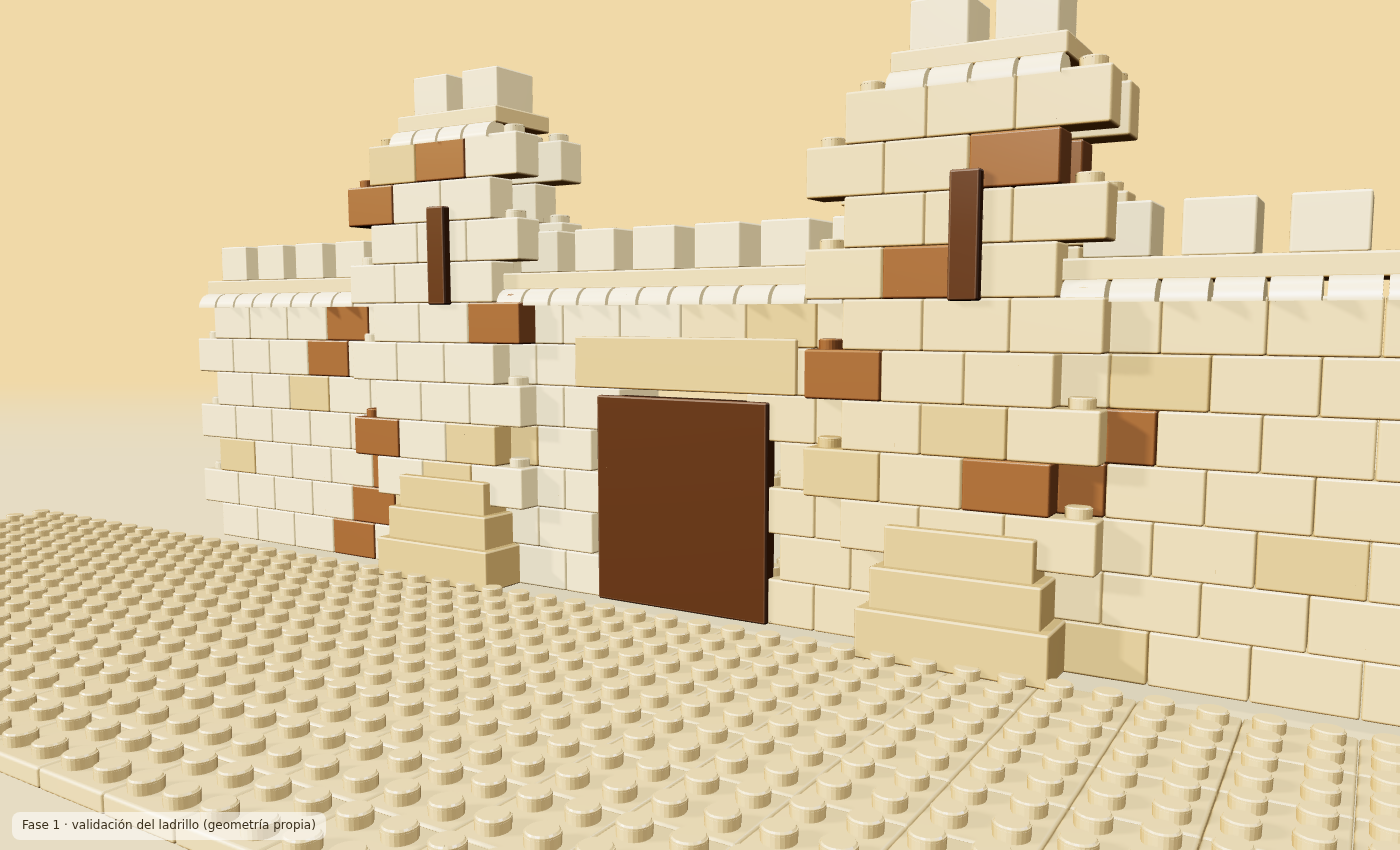
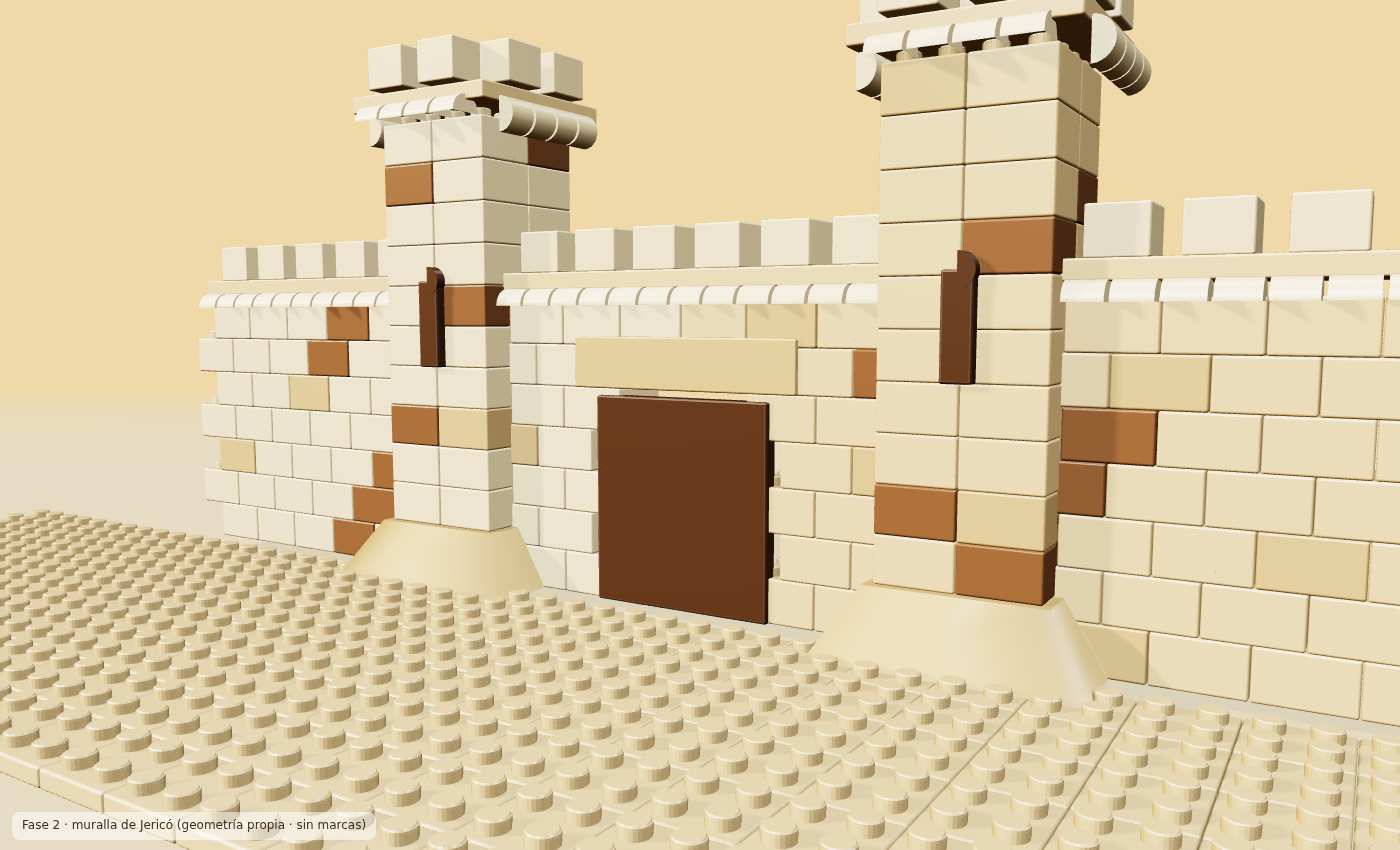
Fase 2: torres limpias (base en talud lisa, ventana de flecha, corona ordenada)
Reescribe la construccion de torres: base en talud como piramide truncada
alineada, fuste de ladrillos relleno y regular, ventana de flecha con arco,
y corona de mensulas + merlones alrededor de las cuatro caras.

Claude-Session: https://claude.ai/code/session_012PKacETd2mAKdMAMLuN5F3

Changed region(s): [[0.5529, 0.0, 0.8293, 0.8259], [0.2457, 0.0306, 0.43, 0.7035], [0.0614, 0.9482, 0.2764, 1.0]]

diff --git a/mundo-ladrillos/src/structures/BrickStructureBuilder.ts b/mundo-ladrillos/src/structures/BrickStructureBuilder.ts
@@ -51,9 +51,10 @@ function sandFor(x: number, y: number): number {
 }
 
 /** Ménsula redondeada (medio cilindro tumbado que sobresale del muro). */
-function corbelGeo(len: number): THREE.BufferGeometry {
+function corbelGeo(len: number, axis: 'x' | 'z' = 'x'): THREE.BufferGeometry {
   const g = new THREE.CylinderGeometry(0.5, 0.5, len, 16, 1, false, 0, Math.PI);
-  g.rotateZ(Math.PI / 2); // eje a lo largo de X
+  if (axis === 'x') g.rotateZ(Math.PI / 2);
+  else g.rotateX(Math.PI / 2);
   return normalizeGeometry(g);
 }
 
@@ -98,7 +99,7 @@ function addWall(acc: BrickAccumulator, o: WallOptions): void {
 function addCrown(acc: BrickAccumulator, x0: number, x1: number, topY: number, z: number): void {
   // fila de ménsulas redondeadas que sobresalen hacia delante
   for (let x = x0 + 0.5; x < x1; x += 1) {
-    acc.addGeometry(corbelGeo(0.9), BrickPalette.WARM_SAND, x, topY - 0.1, z + 1.1);
+    acc.addGeometry(corbelGeo(0.9, 'x'), BrickPalette.WARM_SAND, x, topY - 0.1, z + 1.1);
   }
   // banda continua sobre las ménsulas
   acc.addGeometry(blockGeo(x1 - x0, 0.5, 2.4), BrickPalette.SAND, (x0 + x1) / 2, topY + 0.35, z);
@@ -108,30 +109,70 @@ function addCrown(acc: BrickAccumulator, x0: number, x1: number, topY: number, z
   }
 }
 
-/** Torre cuadrada más alta, con base en talud, ventana de flecha y corona. */
-function addTower(acc: BrickAccumulator, cx: number, z: number, courses: number): void {
-  const foot = 3; // 3x3 studs
-  // base en talud (skirt que se ensancha abajo)
-  for (let i = 0; i < 3; i++) {
-    const grow = (3 - i) * 0.5;
-    acc.addGeometry(blockGeo(foot + grow, BRICK_HEIGHT, foot + grow),
-      BrickPalette.DARK_SAND, cx, i * BRICK_HEIGHT * 0.8, z);
+/** Base en talud limascia (pirámide truncada de 4 caras, alineada). */
+function addBatter(acc: BrickAccumulator, cx: number, z: number, sideTop: number, sideBot: number, height: number): void {
+  const rTop = sideTop / Math.SQRT2;
+  const rBot = sideBot / Math.SQRT2;
+  const g = new THREE.CylinderGeometry(rTop, rBot, height, 4, 1, false);
+  g.rotateY(Math.PI / 4); // caras alineadas a los ejes
+  g.translate(0, height / 2, 0);
+  acc.addGeometry(normalizeGeometry(g), BrickPalette.DARK_SAND, cx, 0, z);
+}
+
+/** Ventana de flecha: hueco oscuro rematado en arco. */
+function addSlitWindow(acc: BrickAccumulator, cx: number, y: number, zFace: number): void {
+  acc.addGeometry(blockGeo(0.75, BRICK_HEIGHT * 2.1, 0.5), BrickPalette.DARK_BROWN, cx, y, zFace);
+  const arch = new THREE.CylinderGeometry(0.42, 0.42, 0.5, 12, 1, false, 0, Math.PI);
+  arch.rotateX(Math.PI / 2);
+  acc.addGeometry(normalizeGeometry(arch), BrickPalette.DARK_BROWN, cx, y + BRICK_HEIGHT * 2.1, zFace);
+}
+
+/** Merlones (almenas) a lo largo de un borde recto. */
+function addMerlons(acc: BrickAccumulator, x0: number, x1: number, y: number, z: number, along: 'x' | 'z'): void {
+  const len = x1 - x0;
+  for (let d = 0; d < len - 0.5; d += 2) {
+    if (along === 'x') acc.addGeometry(blockGeo(1.4, BRICK_HEIGHT, 1.4), BrickPalette.WARM_SAND, x0 + d + 0.9, y, z);
+    else acc.addGeometry(blockGeo(1.4, BRICK_HEIGHT, 1.4), BrickPalette.WARM_SAND, z, y, x0 + d + 0.9);
   }
-  const baseY = 2.4;
+}
+
+/** Torre cuadrada limpia: base en talud, fuste de ladrillos, ventana y corona. */
+function addTower(acc: BrickAccumulator, cx: number, courses: number): void {
+  const z = 0;
+  const half = 2;            // footprint 4x4 studs
+  const baseY = 1.7;
+
+  addBatter(acc, cx, z, half * 2 + 0.4, half * 2 + 2.4, baseY);
+
+  // Fuste: cada curso = cuatro ladrillos 2x2 rellenando el 4x4, junta alterna
   for (let c = 0; c < courses; c++) {
     const y = baseY + c * BRICK_HEIGHT;
-    const offset = c % 2 ? -1 : 0;
-    for (let sx = -foot + 1; sx <= foot - 1; sx += 2) {
-      for (let sz = -1; sz <= 1; sz += 2) {
-        acc.addBrick(2, 1, 'brick', sandFor(cx + sx, y), cx + sx + offset, y, z + sz * 1);
+    const off = c % 2 ? 0.0 : 0.0; // footprint fijo, tono alterno para variar
+    for (const dx of [-1, 1]) {
+      for (const dz of [-1, 1]) {
+        acc.addBrick(2, 2, 'brick', sandFor(cx + dx * 3 + (c % 2), y * 2 + dz), cx + dx + off, y, z + dz);
       }
     }
   }
-  // ventana de flecha (recess oscuro alto)
-  const winY = baseY + courses * BRICK_HEIGHT * 0.55;
-  acc.addGeometry(blockGeo(0.7, BRICK_HEIGHT * 2.4, 0.4), BrickPalette.DARK_BROWN, cx, winY, z + 1.55);
-  // corona de la torre
-  addCrown(acc, cx - foot / 2 - 0.5, cx + foot / 2 + 0.5, baseY + courses * BRICK_HEIGHT, z);
+  const topY = baseY + courses * BRICK_HEIGHT;
+
+  // Ventana de flecha en la cara frontal
+  addSlitWindow(acc, cx, baseY + courses * BRICK_HEIGHT * 0.4, z + half + 0.05);
+
+  // Corona: banda saliente + ménsulas en las tres caras vistas + merlones alrededor
+  acc.addGeometry(blockGeo(half * 2 + 1.2, 0.5, half * 2 + 1.2), BrickPalette.SAND, cx, topY + 0.3, z);
+  for (let x = cx - half; x < cx + half; x += 1) {
+    acc.addGeometry(corbelGeo(0.9, 'x'), BrickPalette.WARM_SAND, x + 0.5, topY - 0.05, z + half + 0.6);
+  }
+  for (let zz = z - half; zz < z + half; zz += 1) {
+    acc.addGeometry(corbelGeo(0.9, 'z'), BrickPalette.WARM_SAND, cx - half - 0.6, topY - 0.05, zz + 0.5);
+    acc.addGeometry(corbelGeo(0.9, 'z'), BrickPalette.WARM_SAND, cx + half + 0.6, topY - 0.05, zz + 0.5);
+  }
+  const my = topY + 0.9;
+  addMerlons(acc, cx - half, cx + half, my, z + half, 'x'); // frente
+  addMerlons(acc, cx - half, cx + half, my, z - half, 'x'); // detrás
+  addMerlons(acc, z - half, z + half, my, cx - half, 'z'); // izquierda
+  addMerlons(acc, z - half, z + half, my, cx + half, 'z'); // derecha
 }
 
 /** Suelo tipo placa base con tetones (sand). */
@@ -148,7 +189,7 @@ export function buildJericho(plastic: PlasticMaterialFactory): THREE.Group {
   const acc = new BrickAccumulator();
   addBaseplate(acc);
   addWall(acc, { x0: -20, z: 0, widthStuds: 40, courses: 7, gate: true });
-  addTower(acc, -8, 0.2, 9);
-  addTower(acc, 8, 0.2, 9);
+  addTower(acc, -8, 10);
+  addTower(acc, 8, 10);
   return acc.build(plastic);
 }
